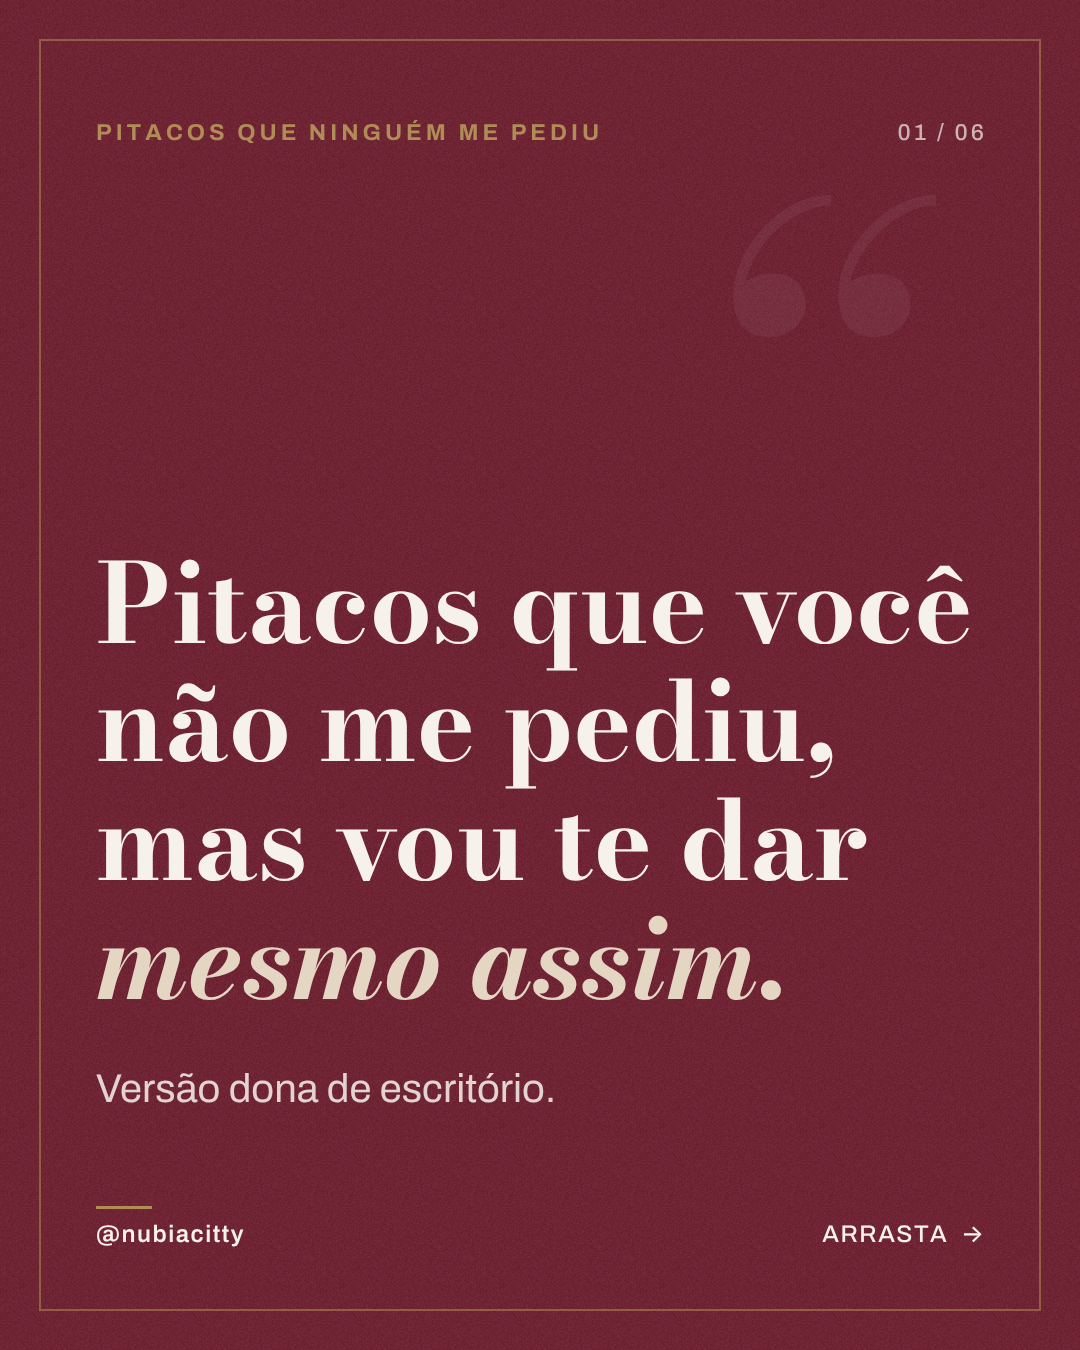
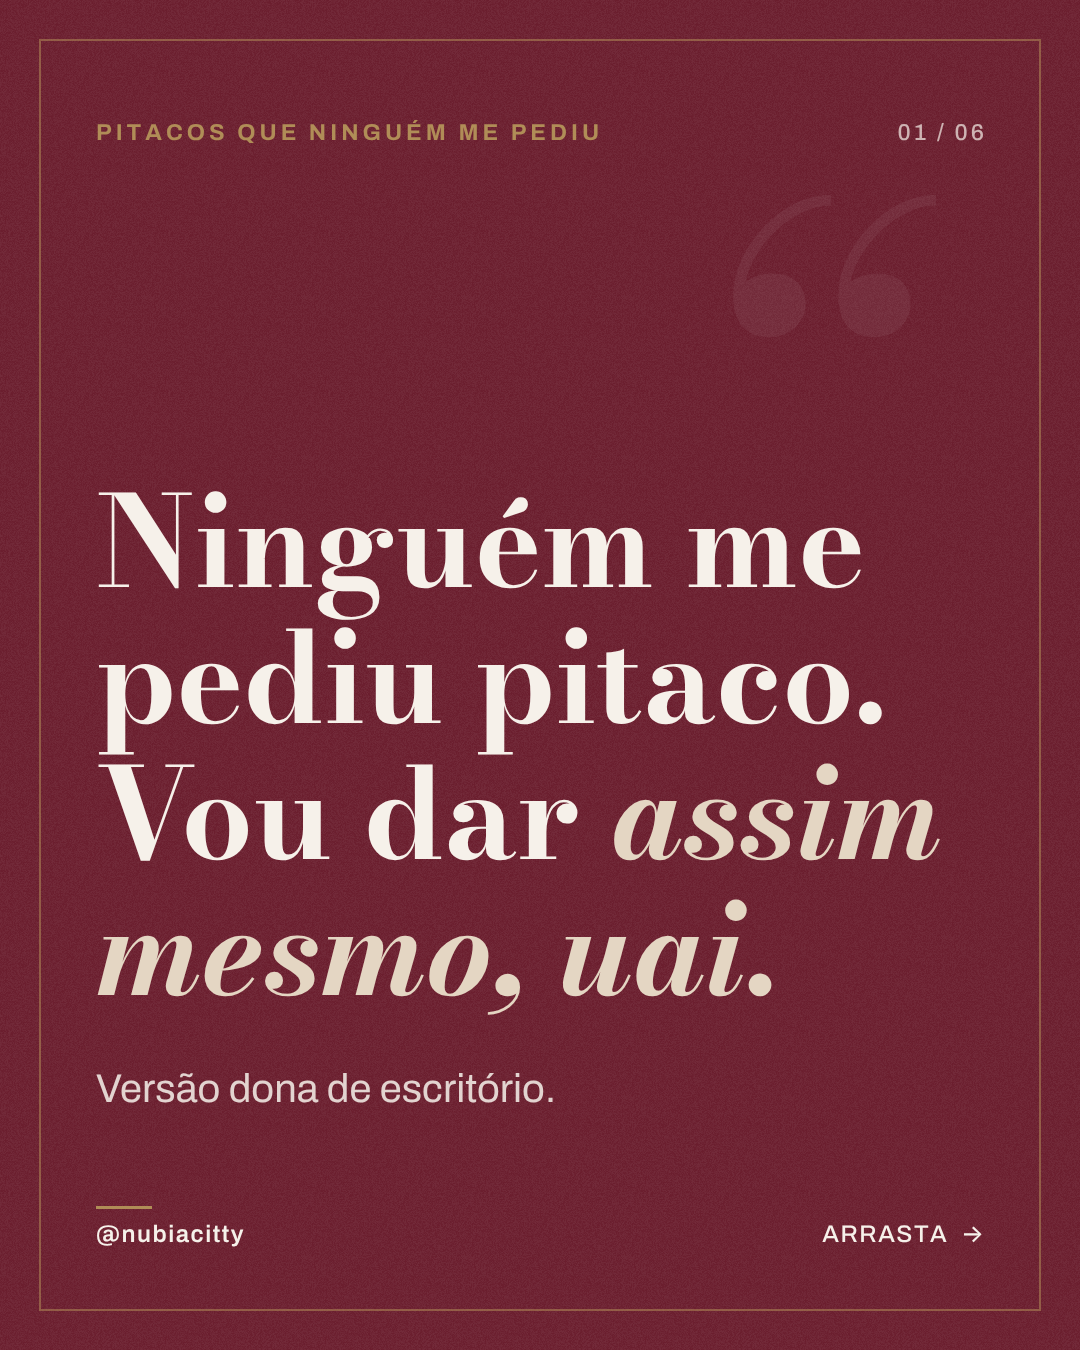
Título próprio no carrossel e decisões aplicadas
Claude-Session: https://claude.ai/code/session_01D3NFYJzeTLmuJ1KpzmkBCa

Changed region(s): [[0.0917, 0.3422, 0.9167, 0.7467]]

diff --git a/prontos-para-publicar/2026-10-30-primeiro-teste/03-carrossel-pitacos-dona-de-escritorio/textos.md b/prontos-para-publicar/2026-10-30-primeiro-teste/03-carrossel-pitacos-dona-de-escritorio/textos.md
@@ -1,11 +1,11 @@
-# Pitacos que você não me pediu, mas vou te dar mesmo assim. Versão dona de escritório.
+# Ninguém me pediu pitaco. Vou dar assim mesmo, uai. Versão dona de escritório.
 
 Formato: carrossel · Objetivo: crescimento · Série: Pitacos que ninguém me pediu
 
 > Validar: As opiniões dos cards 2 a 5 estão atribuídas a você, inclusive a do honorário (card 5). Aprove só se concordar com cada uma.
 
 ## Cards
-1. Pitacos que você não me pediu, mas vou te dar mesmo assim. | Versão dona de escritório.
+1. Ninguém me pediu pitaco. Vou dar assim mesmo, uai. | Versão dona de escritório.
 2. Você não precisa de mais clientes. Precisa parar de atender cliente que te custa dinheiro. | Aquele que liga às 23h, pede desconto e some na hora do boleto. Isso não é cliente. É hobby caro.
 3. Ninguém te contratou pela sua gravata. Mas muita gente desistiu pelo seu WhatsApp. | Áudio de 4 minutos, resposta três dias depois. O cliente julga o escritório antes de ler a petição.
 4. Se o estagiário sabe a senha do sistema e você não, quem é o dono do escritório? | Delegar não é sumir. É saber exatamente o que foi entregue.
